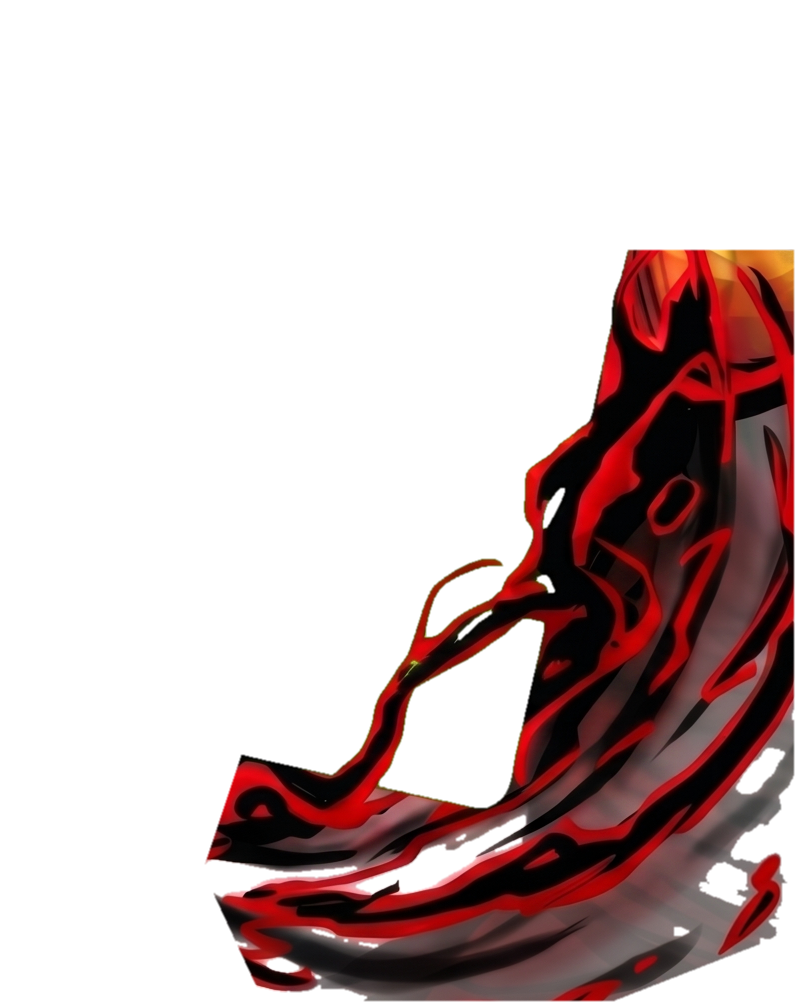
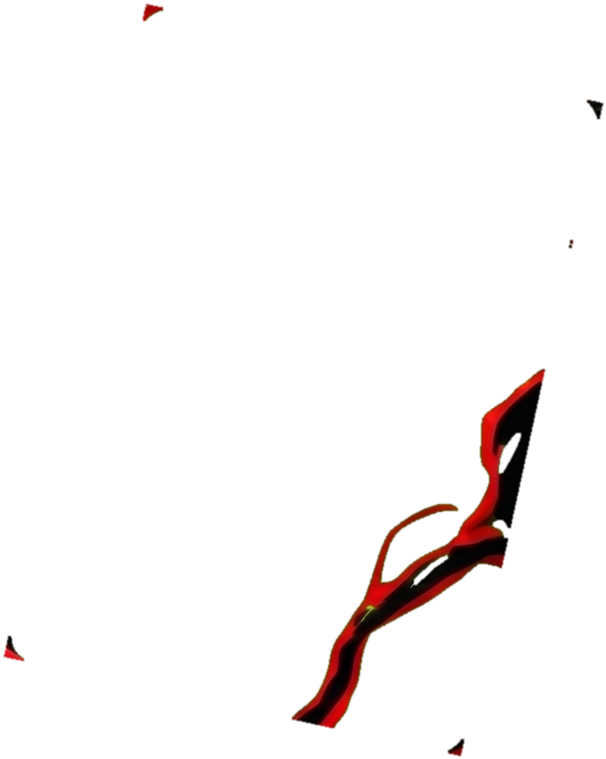
Gauntlet v7: deterministic system - card sized to the exact tracked green rect, front layer = (inside rect AND not green), geometry JSON + automated pixel benchmark (0 green violations, 0 outside violations, 99.2% front match)

diff --git a/gauntlet.html b/gauntlet.html
@@ -24,16 +24,16 @@ body{background:#05070f;color:#eaf2ff;font-family:'DM Sans',system-ui,sans-serif
 @media (min-aspect-ratio:2752/1536){ .stage{height:auto;width:100vw;min-height:100vh} }
 .stage > img.scene{position:absolute;inset:0;width:100%;height:100%;object-fit:fill;user-select:none;-webkit-user-drag:none}
 /* the live card — positioned in % of the stage so it scales with it */
-.cardslot{position:absolute;left:50.3052%;top:56.3264%;width:17.6200%;height:45.1950%;
+.cardslot{position:absolute;left:50.3059%;top:56.3264%;width:16.9432%;height:43.4582%;
   transform:translate(-50%,-50%) rotate(12.28deg);transform-style:preserve-3d;cursor:pointer;
   filter:drop-shadow(0 0 34px rgba(255,40,30,.45)) drop-shadow(0 14px 30px rgba(0,0,0,.5))}
-.cardslot .flip{position:absolute;inset:-3.2%;transform-style:preserve-3d}
+.cardslot .flip{position:absolute;inset:0;transform-style:preserve-3d}
 .cardslot img.art{position:absolute;inset:0;width:100%;height:100%;object-fit:cover;border-radius:4.6%/3.4%;
   backface-visibility:hidden;background:#141a2c}
-.cardslot .sheen{position:absolute;inset:-3.2%;border-radius:4.6%/3.4%;pointer-events:none;mix-blend-mode:screen;
+.cardslot .sheen{position:absolute;inset:0;border-radius:4.6%/3.4%;pointer-events:none;mix-blend-mode:screen;
   background:linear-gradient(118deg,transparent 40%,rgba(255,235,200,.5) 50%,transparent 60%);
   background-size:240% 100%;background-position-x:-140%;background-repeat:no-repeat}
-.occluder{position:absolute;left:37.6817%;top:27.9948%;width:29.0334%;height:65.4948%;pointer-events:none;user-select:none;-webkit-user-drag:none}
+.occluder{position:absolute;left:39.2805%;top:31.5755%;width:22.0203%;height:49.4141%;pointer-events:none;user-select:none;-webkit-user-drag:none}
 /* chrome */
 .hud{position:fixed;left:0;right:0;top:0;z-index:10;display:flex;align-items:center;justify-content:space-between;padding:18px clamp(18px,3vw,40px);
   background:linear-gradient(180deg,rgba(4,6,12,.72),transparent)}
@@ -61,7 +61,7 @@ body{background:#05070f;color:#eaf2ff;font-family:'DM Sans',system-ui,sans-serif
         </div>
         <span class="sheen" id="sheen"></span>
       </div>
-      <img class="occluder" src="assets/bg/gauntlet-occluder.png?v=6" alt="" draggable="false">
+      <img class="occluder" src="assets/bg/gauntlet-occluder.png?v=7" alt="" draggable="false">
     </div>
   </div>
 
